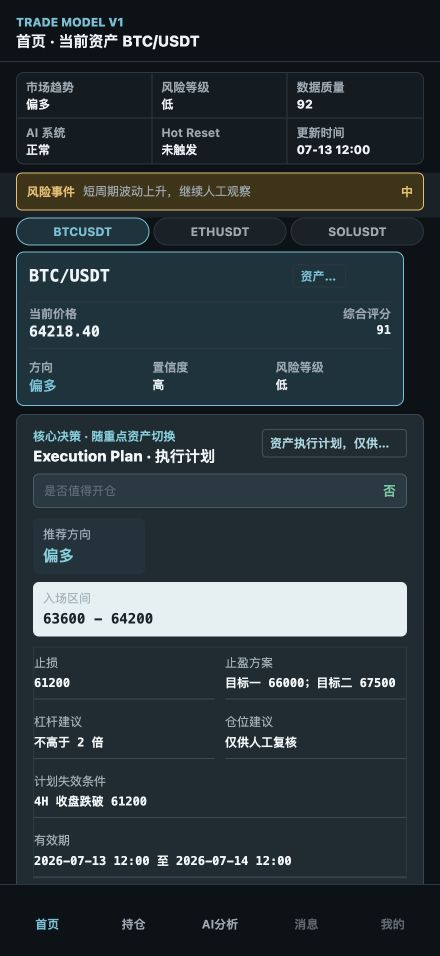
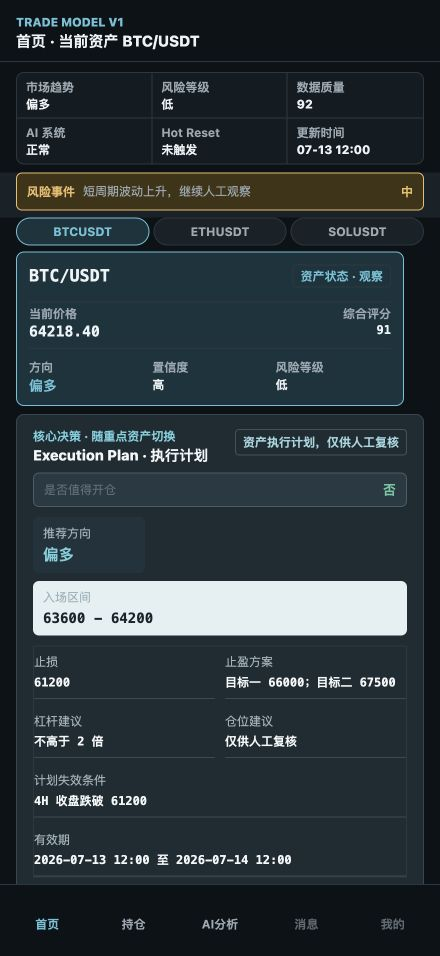
fix(home): preserve mobile state label visibility

diff --git a/src/main/resources/static/css/dashboard-mobile.css b/src/main/resources/static/css/dashboard-mobile.css
@@ -2357,17 +2357,17 @@ body {
 }
 
 .asset-state {
-  max-width: 54%;
+  max-width: 190px;
   padding: 4px 7px;
-  overflow: hidden;
+  justify-self: end;
   border-radius: 4px;
   background: var(--accent-soft);
   color: var(--accent);
   font-size: 0.75rem;
   font-weight: 730;
   line-height: 1.1;
-  text-overflow: ellipsis;
-  white-space: nowrap;
+  text-align: right;
+  white-space: normal;
 }
 
 .asset-price-score {
@@ -2448,21 +2448,22 @@ body {
 
 .execution-section h2 {
   color: inherit;
-  font-size: 0.94rem;
+  font-size: 0.9rem;
   font-weight: 780;
 }
 
 .execution-status-badge {
-  max-width: 145px;
+  max-width: 180px;
   padding: 5px 7px;
-  overflow: hidden;
+  overflow: visible;
   border: 1px solid #3d535d;
   border-radius: 4px;
   color: #9fd6df;
   font-size: 0.75rem;
   font-weight: 700;
-  text-overflow: ellipsis;
-  white-space: nowrap;
+  line-height: 1.2;
+  text-align: right;
+  white-space: normal;
 }
 
 .execution-section .semantic-state-line {
